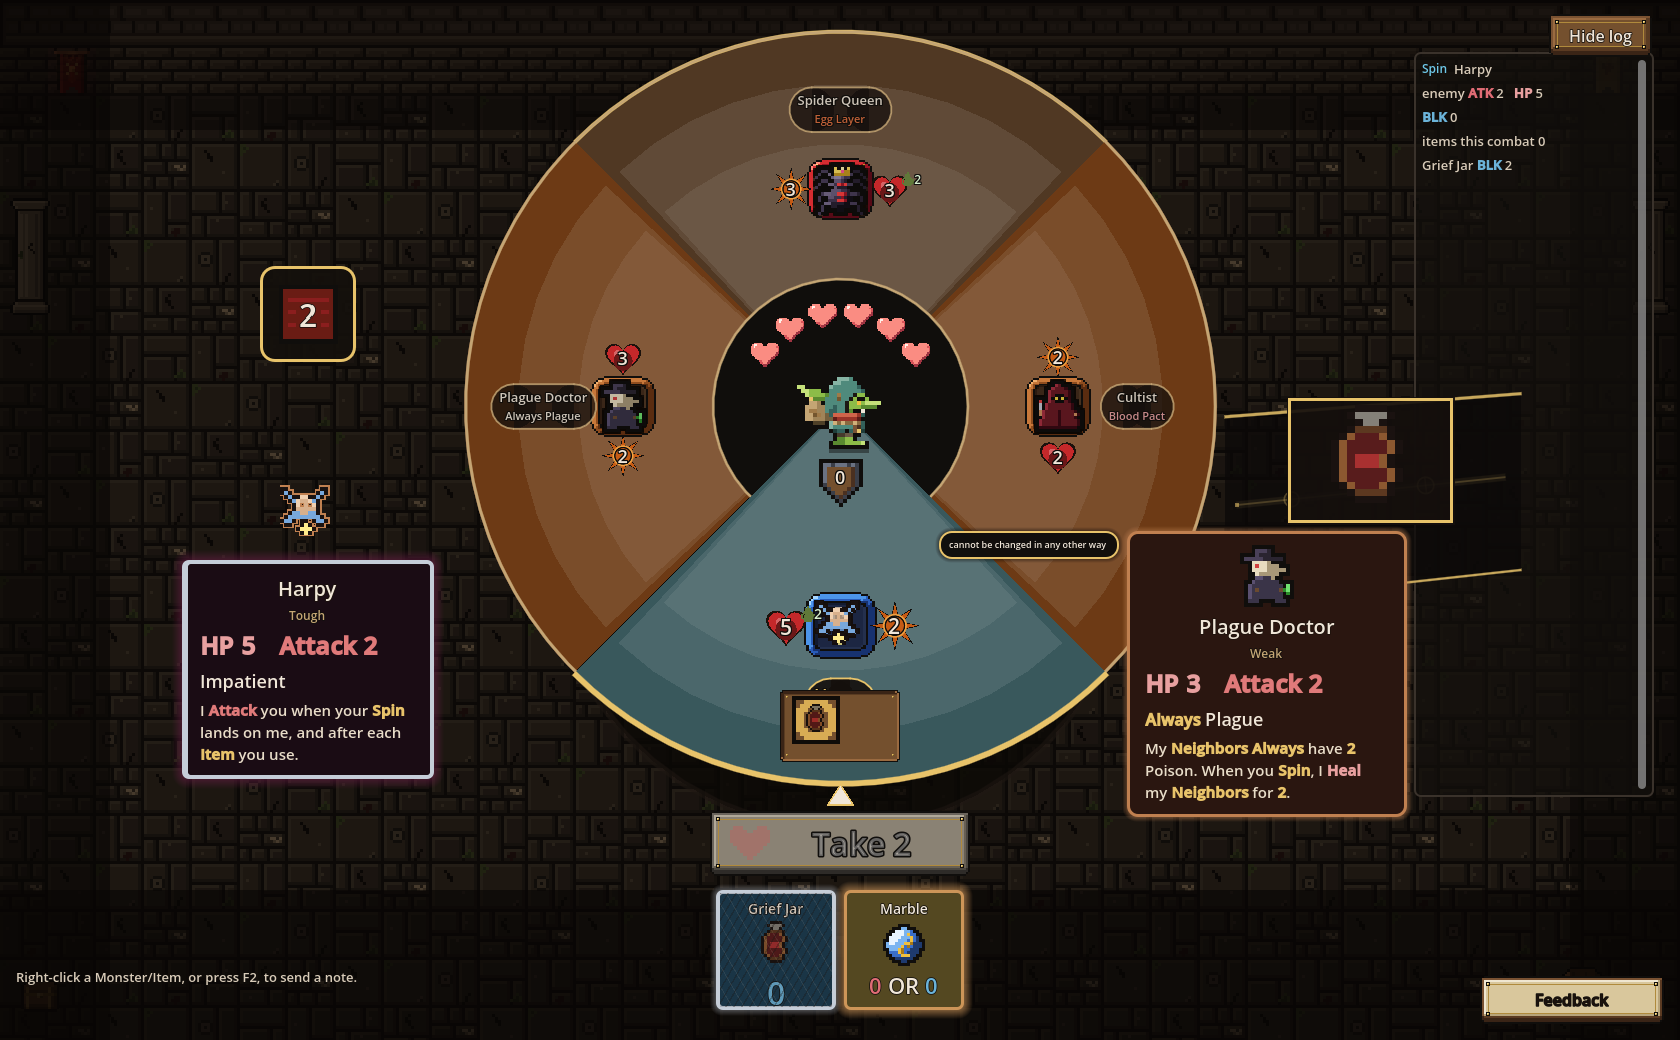
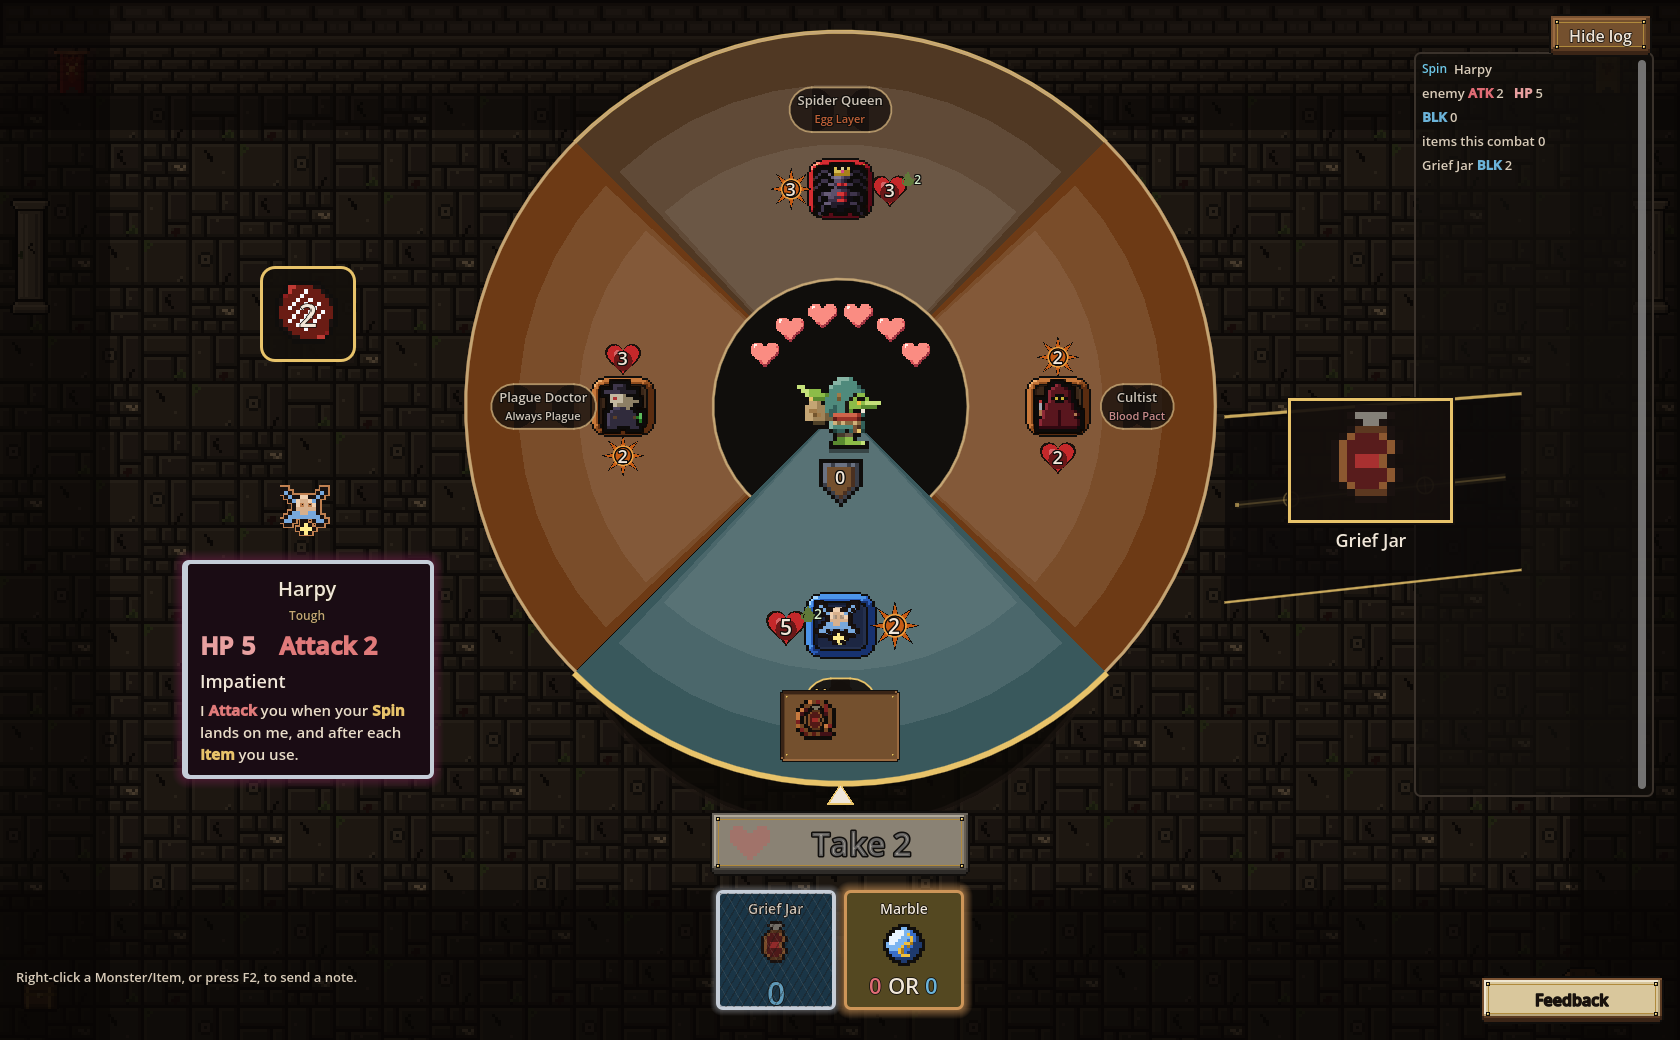
anim-pass3(2): wire final PixelLab ticker+intent art; seat-agnostic strip
Replace placeholder PNGs under assets/ui/anim/ with PixelLab finals (nearest,
lossless imports already present). Strip width follows token count / viewport,
not wheel seats. Harness seats 4–6 and adds 07_six_seats + 08_intent_plate_final_art.
Removed stray cascade-shots6.log. No itch export.

Screenshots: 01_cascade_300ms, 02_cascade_900ms, 03_cascade_1800ms,
04_cascade_ff_600ms (▶▶), 05_cascade_ff_release, 06_space_untouched,
07_six_seats, 08_intent_plate_final_art

Changed region(s): [[0.5571, 0.4923, 0.8667, 0.8], [0.4643, 0.6462, 0.5262, 0.7385], [0.1548, 0.2769, 0.2167, 0.3385]]

diff --git a/assets/ui/anim/PLACEHOLDERS.md b/assets/ui/anim/PLACEHOLDERS.md
@@ -1,8 +1,12 @@
-# UI anim placeholders
+# UI anim assets (`assets/ui/anim/`)
 
-PixelLab final art is not in yet. These flat-palette PNGs keep layout and timing wired. Overwrite the same paths; loaders use `res://assets/ui/anim/...` by path.
+Import: Filter Nearest (project default), mipmaps off, Lossless (`compress/mode=0`). Shark loop chip is Tween/`_draw` only (`UxStyle.draw_multi_tag`) — no PNG.
 
-## Intent plate
+## Final PixelLab art
+
+Overwrite landed at the same paths as the old placeholders. Loaders still use `res://assets/ui/anim/...` by path.
+
+### Intent plate
 
 | File | Native | Frames | Notes |
 |---|---|---|---|
@@ -15,7 +19,7 @@ PixelLab final art is not in yet. These flat-palette PNGs keep layout and timing
 | `intent_chip_drop.png` | 8×8 | 1 | Drop / poison chip |
 | `intent_chip_flee.png` | 8×8 | 1 | Flee footprints chip |
 
-## Spin cascade ticker
+### Spin cascade ticker
 
 | File | Native | Frames | Notes |
 |---|---|---|---|
@@ -23,4 +27,6 @@ PixelLab final art is not in yet. These flat-palette PNGs keep layout and timing
 | `ticker_token_stamp_f0.png` … `ticker_token_stamp_f3.png` | 12×12 | 4 | Press-down + ink tick |
 | `ticker_ff.png` | 12×8 | 1 | Gold ▶▶ chevrons |
 
-Import: Filter Nearest (project default), mipmaps off, Lossless (`compress/mode=0`). Shark loop chip is Tween/`_draw` only (`UxStyle.draw_multi_tag`) — no PNG.
+## Still placeholders
+
+None under `assets/ui/anim/` right now. Future temp flats go here until PixelLab overwrites the same path.
